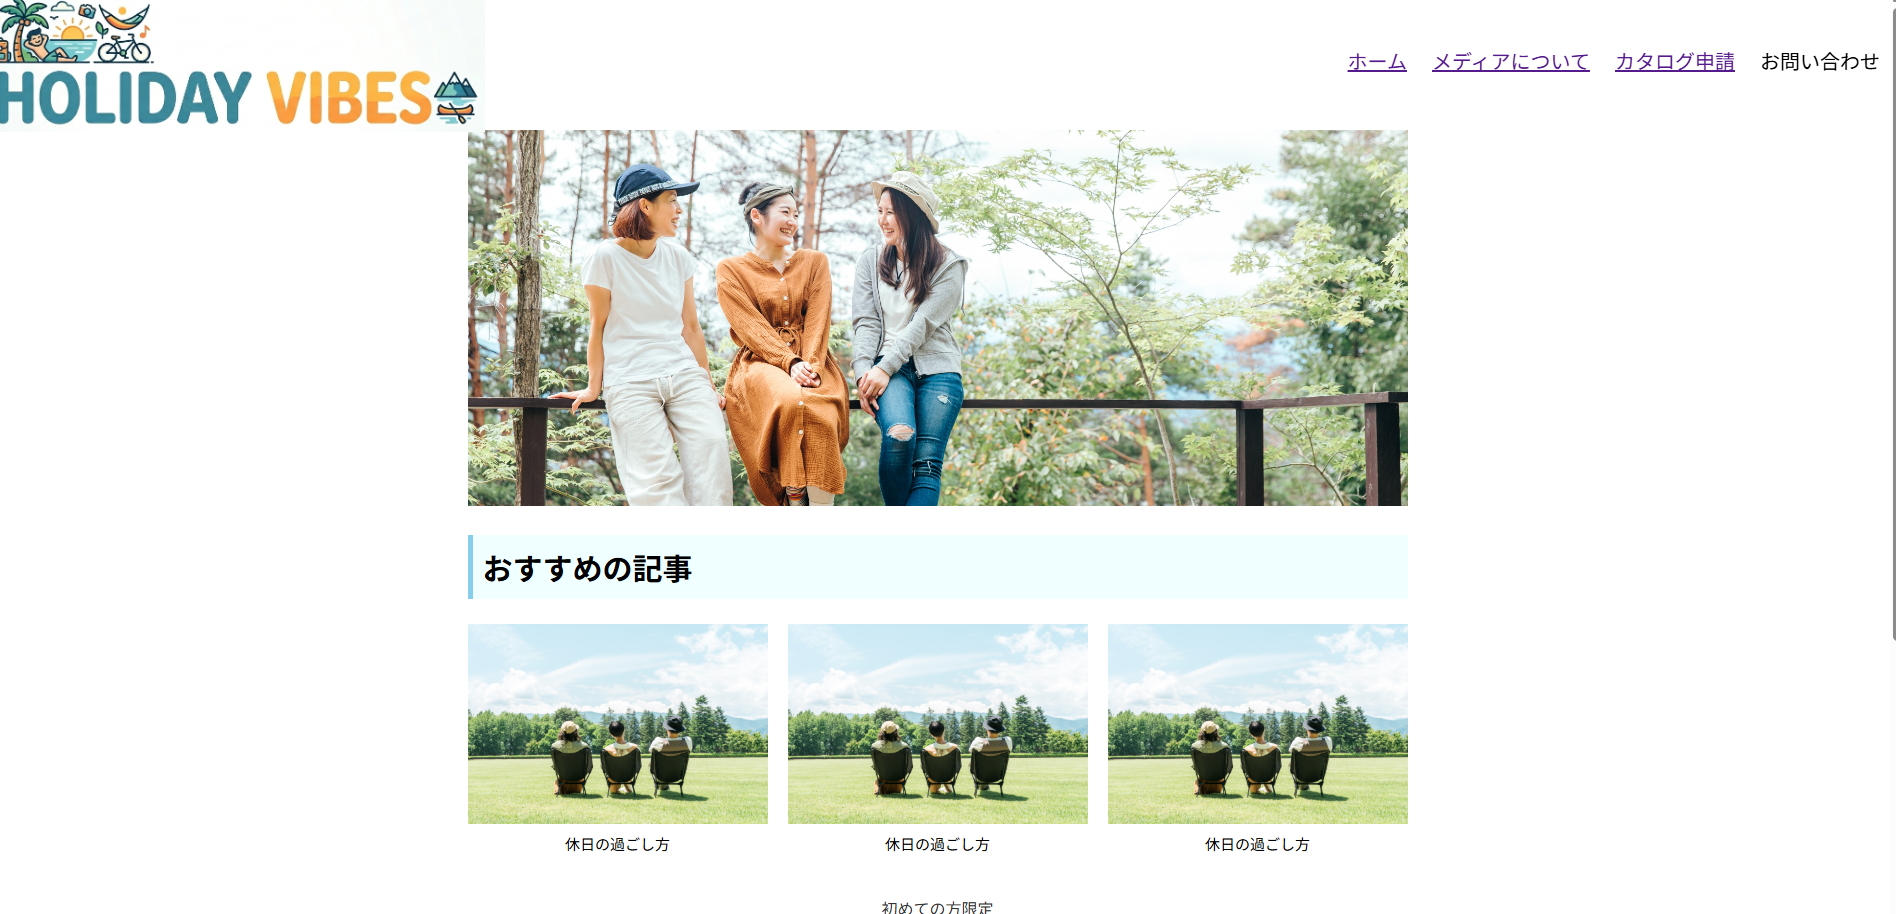
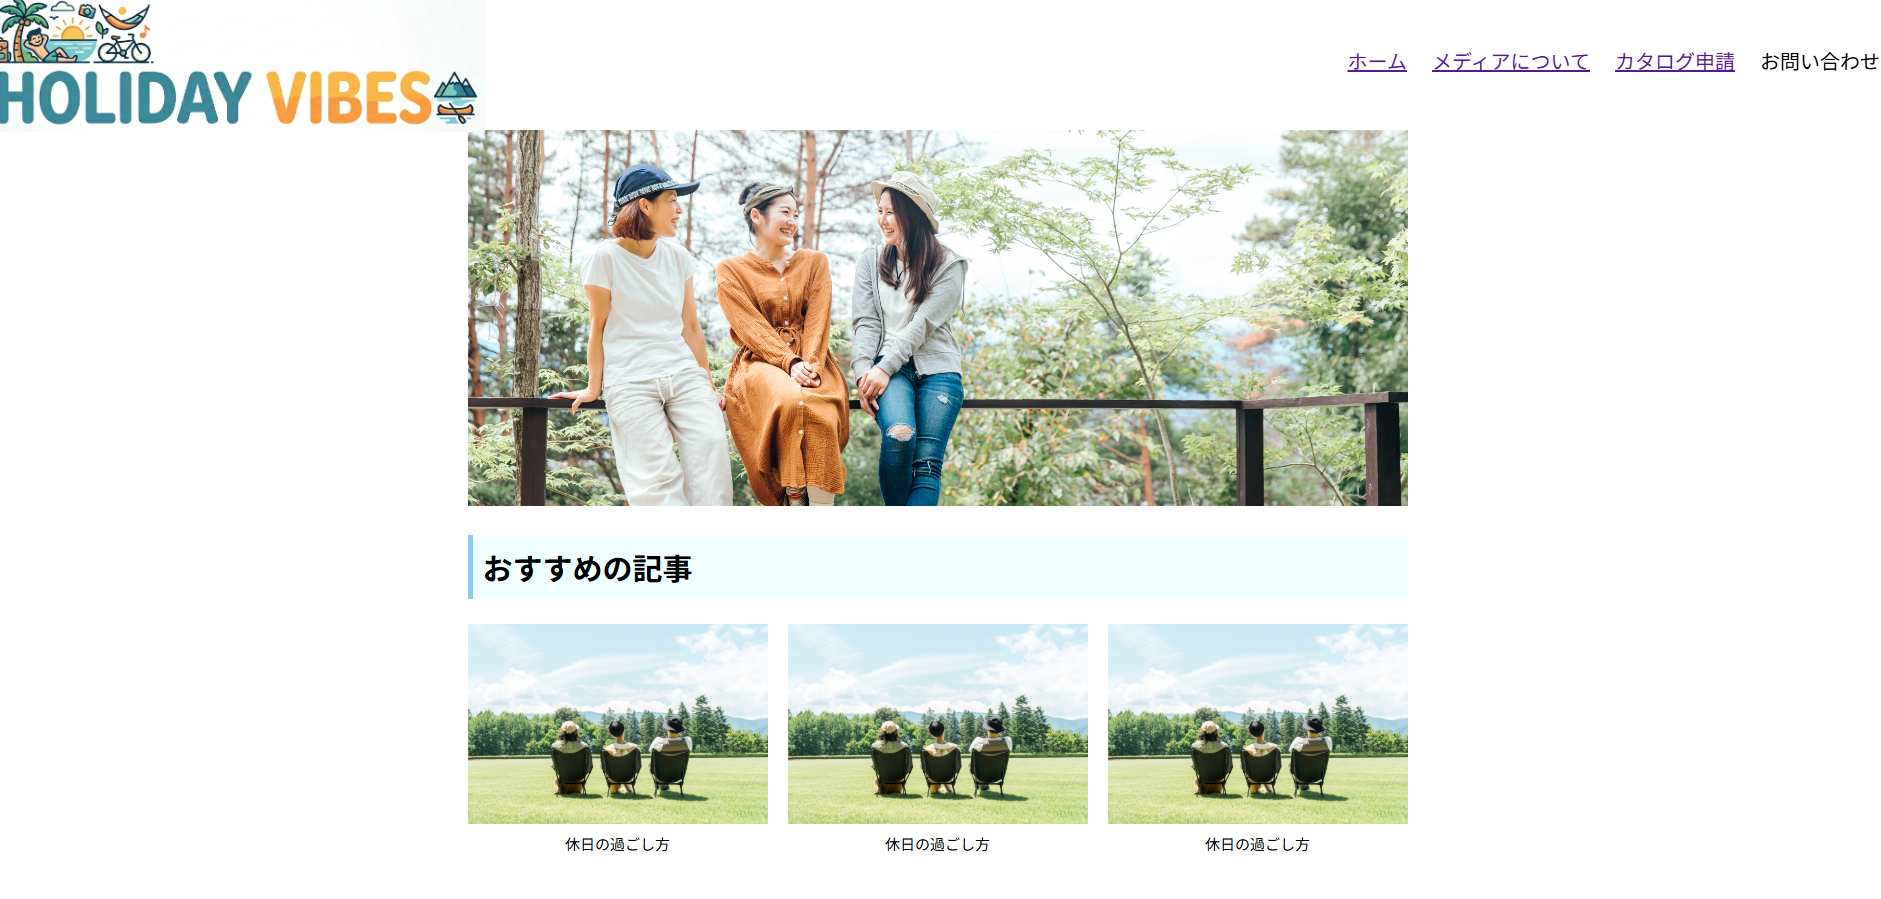
5.12更新

Changed region(s): [[0.0, 0.0, 0.7709, 0.5606], [0.2467, 0.5918, 0.7709, 1.0], [0.7092, 0.0311, 1.0, 0.6852]]

diff --git a/members/yaoo/style.css b/members/yaoo/style.css
@@ -10,8 +10,6 @@ body{
     color: #4a4a4a;
     line-height: 1.8;/*行間*/
 }
-
-/*ヘッダー*/
 header {
     position: fixed;/*スクロールしても固定される*/
     top: 0;
@@ -124,6 +122,10 @@ section h2{
     box-shadow: 0 12px 30px rgba(0,0,0,0.06);
     background: rgba(255,255,255,0.95);
 }
+.Works-botton{
+    text-align: center;
+    margin-top: 50px;
+}
 
 .worklists{
     display: flex;
@@ -136,12 +138,20 @@ section h2{
 
 .worklists div {
     width: 460px;
+    flex: 1 1 calc(33.333% - 20px);
 }
+
+
 .worklists img{
     width: 100%;
     height: 320px;
     object-fit: contain;
     display: block;
+    transition: 0.35s ease;
+   
+}
+.worklists img:hover{
+    transform: translateY(-10px);/*少し浮く*/   
 }
 .worklists p{
     margin: 0;
@@ -154,6 +164,7 @@ section h2{
 
     .worklists{
         flex-wrap: wrap;
+
     }
 
     .worklists div{
@@ -168,18 +179,69 @@ footer{
     padding: 120px 8%;
     background: rgba(248,248,248,0.8);
     border-top: 1px solid rgba(220,220,220,0.4);
-    text-align: center;
 }
-footer h2{
+.footer-container{
+    display: flex;
+    justify-content: space-between;
+    align-items: flex-start;/* 上揃え */
+    max-width: 1200px;
+    margin: 0 auto;
+}
+.footer-left{
+    text-align: left;
+}
+.footer-left h2{
     font-size: 2rem;
     font-weight: 200;
     letter-spacing: 0.12em;
     color: #888;
     margin-bottom: 35px;
+    text-transform: uppercase;
 }
-footer p{
-    font-size: 1.15rem;
+
+.footer-right {
+    text-align: right;
+}
+
+.footer-right h3 {
+    font-size: 2rem;
+    font-weight: 200;
+    letter-spacing: 0.1em;
+    color: #999;
+    margin-bottom: 25px; 
+    text-transform: uppercase;
+}
+
+.footer-right ul {
+    list-style: none;
+    padding: 0;
+}
+
+.footer-right li {
+    margin-bottom: 15px;
+}
+
+.footer-right a {
+    text-decoration: none;
     color: #666;
+    font-size: 1.15rem; /* ContactのPタグとサイズを合わせる */
+    transition: color 0.3s;
+}
+
+.footer-right a:hover {
+    color: #333;
+}
+
+/* スマホ対応：画面が狭い時は縦に並べる */
+@media (max-width: 768px) {
+    .footer-container {
+        flex-direction: column;
+        align-items: center;
+        gap: 60px;
+    }
+    .footer-left, .footer-right {
+        text-align: center;
+    }
 }
 
 .aboutvisual{
@@ -200,7 +262,7 @@ footer p{
     list-style: none;
     flex-wrap: wrap;
 }
-#skill li{
+#skills li{
     width: 500px;
     padding: 35px;
     background: rgba(255,255,255,0.75);
@@ -220,8 +282,10 @@ footer p{
     justify-content: center;
     gap: 30px;
     flex-wrap: wrap;
+    padding: 0 20px;
 }
 .hobby-card{
+    flex: 1 1 calc(33.333% - 20px);
     width: 420px;
     overflow: hidden;
     border-radius: 24px;
@@ -258,4 +322,28 @@ footer p{
     height: 65vh;
     display: block;
     object-fit: cover;
+}
+
+.pagetop {
+    height: 50px;
+    width: 50px;
+    position: fixed;
+    right: 30px;
+    bottom: 30px;
+    background:  rgba(255,255,255,0.85);
+    border: solid 2px #aaa;
+    border-radius: 50%;
+    display: flex;
+    justify-content: center;
+    align-items: center;
+    z-index: 2;
+    box-shadow: 0 4px 6px rgb(0 0 0 / 30%);
+}
+
+.pagetop__arrow {
+    height: 10px;
+    width: 10px;
+    border-top: 3px solid #aaa;
+    border-right: 3px solid #aaa;
+    transform: translateY(20%) rotate(-45deg);
 }

diff --git a/members/yaoo/works.html b/members/yaoo/works.html
@@ -19,31 +19,45 @@
     <main>
         <img class="worksvisual" src="images/workvisual.png">
         <section id="Works">
-                <h2>Works</h2>"
-                <div class="worklists">
-                    <div>
-                        <img src="images/form.png" width="300px" height="200px">
-                        <p>
-                            休日の過ごし方申請フォーム
-                        </p>
-                    </div>
-                    <div>
-                        <img src="images/quiz.png" width="300px" height="200px">
-                        <p>
-                            フロントエンドクイズ
-                        </p>
-                    </div>
-                    <div>
-                        <img src="images/profileworks.png" width="300px" height="200px">
-                        <p>
-                            Yaooプロフィール
-                        </p>
-                    </div>
-            </section>
+            <h2>Works</h2>
+            <div class="worklists">
+            <div><a href="https://ogura25.github.io/holiday-form/">
+                <img src="images/form.png" alt="休日の過ごし方申請フォーム">
+                </a>
+                <p>
+                    休日の過ごし方申請フォーム
+                </p>
+            </div>
+            <div><a href="https://ogura25.github.io/kadai_frontendquiz/">
+                <img src="images/quiz.png" alt="フロントエンドクイズ" >
+                </a>
+                <p>
+                    フロントエンドクイズ
+                </p>
+            </div>
+            <div><a href="http://127.0.0.1:5500/index.html"></a>
+                <img src="images/profileworks.png" alt="Yaooプロフィール">
+                <p>
+                    Yaooプロフィール
+                </p>
+                </a>
+            </div>
+        </section>
+        <a class="pagetop" href="#"><div class="pagetop__arrow"></div></a>
     </main>
     <footer>
+         <div class="footer-container">
+            <div class="footer-left">
         <h2>Contact</h2>
-        <p>✉[email redacted]</p>
+        <p>✉　[email redacted]</p>
+        </div>
+        <div class="footer-right">
+            <h3>Member Profiie</h3>
+            <ul>
+                <li> <a href="https://teppeiyoshidasamurai-star.github.io/SAMURAI_GIT_TEST/members/obi/">Member obi </a></li>
+                <li> <a href="https://teppeiyoshidasamurai-star.github.io/SAMURAI_GIT_TEST/members/kimura/">Member kimura </a></li>
+            </ul>
+        </div>
     </footer>
 </body>
 </html>

diff --git a/members/yaoo/index.html b/members/yaoo/index.html
@@ -33,41 +33,43 @@
 
             </div>
         </section>
-        <section id="Works">
+            <section id="Works">
             <h2>Works</h2>
             <div class="worklists">
-            <div>
-                        
-            <img src="images/form.png" alt="休日の過ごし方申請フォーム" >
-            <p>
-                休日の過ごし方申請フォーム
-            </p>
-                        
+            <div><a href="https://ogura25.github.io/holiday-form/">
+                <img src="images/form.png" alt="休日の過ごし方申請フォーム">
+                </a>
+                <p>
+                    休日の過ごし方申請フォーム
+                </p>
             </div>
-            <div>
-                        
-            <img src="images/quiz.png" alt="フロントエンドクイズ">
-            <p>
-                フロントエンドクイズ
-            </p>
-                        
-            </div>
-            <div>
-            <img src="images/profileworks.png" alt="">
-            <p>
-            Yaooプロフィール
-            </p>
-                    
+            <div><a href="https://ogura25.github.io/kadai_frontendquiz/">
+                <img src="images/quiz.png" alt="フロントエンドクイズ" >
+                </a>
+                <p>
+                    フロントエンドクイズ
+                </p>
             </div>
             </div>
             <div class="Works-botton">
                 <a href="works.html" class="btn">More Works ➡</a>
             </div>
         </section>
+        <a class="pagetop" href="#"><div class="pagetop__arrow"></div></a>
     </main>
     <footer>
+        <div class="footer-container">
+            <div class="footer-left">
         <h2>Contact</h2>
-        <p>✉[email redacted]</p>
+        <p>✉　[email redacted]</p>
+        </div>
+        <div class="footer-right">
+            <h3>Member Profilio</h3>
+            <ul>
+                <li> <a href="https://teppeiyoshidasamurai-star.github.io/SAMURAI_GIT_TEST/members/obi/">Member obi </a></li>
+                <li> <a href="https://teppeiyoshidasamurai-star.github.io/SAMURAI_GIT_TEST/members/kimura/">Member kimura </a></li>
+            </ul>
+        </div>
     </footer>
 </body>
 </html>

diff --git a/members/yaoo/about.html b/members/yaoo/about.html
@@ -78,10 +78,21 @@
                     </div>
                 </article>
             </section>
-        </main>
+            <a class="pagetop" href="#"><div class="pagetop__arrow"></div></a>
+    </main>
     <footer>
-        <h2>Contact</h2>
-        <p>✉[email redacted]</p>
+            <div class="footer-container">
+                <div class="footer-left">
+            <h2>Contact</h2>
+            <p>✉　[email redacted]</p>
+            </div>
+            <div class="footer-right">
+                <h3>Member profile</h3>
+                <ul>
+                    <li> <a href="https://teppeiyoshidasamurai-star.github.io/SAMURAI_GIT_TEST/members/obi/">Member obi </a></li>
+                    <li> <a href="https://teppeiyoshidasamurai-star.github.io/SAMURAI_GIT_TEST/members/kimura/">Member kimura </a></li>
+                </ul>
+            </div>
     </footer>
 </body>
 </html>